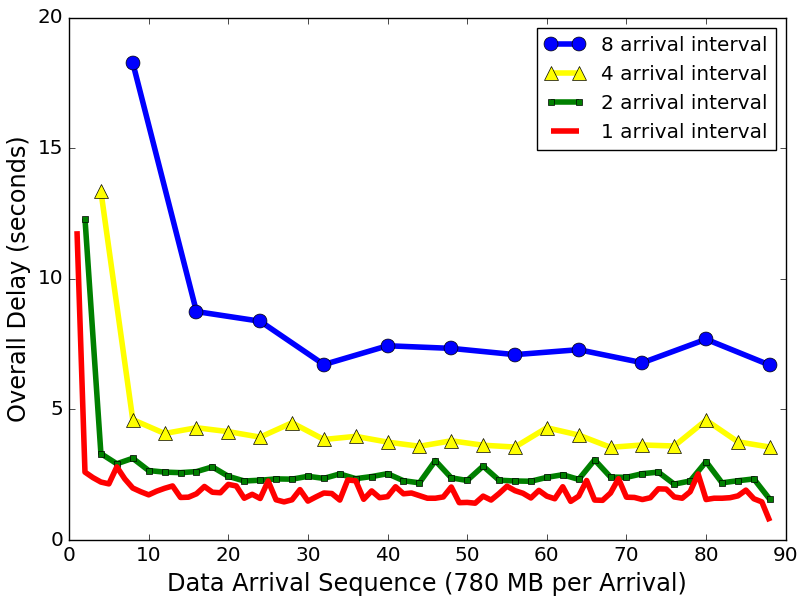
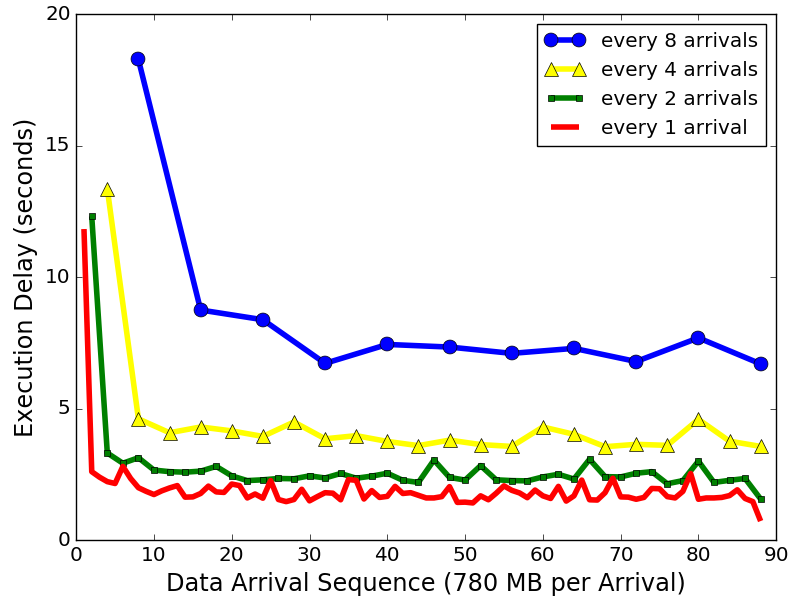
editing the streaming perf

diff --git a/Kira.tex b/Kira.tex
@@ -62,6 +62,8 @@
 \usepackage{listings}
 \usepackage{url}
 \usepackage{balance}
+\usepackage{mathtools}
+\DeclarePairedDelimiter{\ceil}{\lceil}{\rceil}
 
 \newif\ifdraft
 \drafttrue
@@ -606,6 +608,7 @@ and alltoall (shuffle). This broad dataflow pattern support can be used to optim
 \item Spark's underlying file system support allows Kira to process data stored in a distributed file system such as HDFS~\cite{shvachko10}, 
 as well as data stored in HPC-style shared file systems such as GlusterFS~\cite{davies13} or Lustre~\cite{donovan03}.
 \item The Kira toolkit also inherits Spark's fault tolerance mechanism, which is a feature missing from MPI~\cite{gropp96}.
+\item \zhaonote{This is new} The same Kira implementation can leverage other components of the Berkeley Data Analytic Stack (BDAS), e.g., Spark Streaming~\cite{zaharia13}.
 \end{enumerate}
 
 Our experiments show that Spark is capable of managing $O(10^6)$ tasks and that Kira SE runs 4.1$\times$ faster than an equivalent C program when using a shared file system on the Amazon EC2 cloud with the 1TB Data Release 7 from the Sloan Digital Sky Survey~\cite{york00}. We also show that running Kira SE in the Amazon EC2 cloud can achieve performance that is 1.8$\times$ faster than that of the equivalent C program running on the NERSC Edison supercomputer.
@@ -692,6 +695,13 @@ GlusterFS~\cite{davies13} or Lustre~\cite{donovan03}. Spark provides fault toler
 lineage-based recomputation. If a partition of data is lost, Spark can recover the data
 by re-executing the section of the DAG that computed the lost partition.
 
+\zhaonote{This is new}
+Spark stream data processing is enabled by the conceptual data structure {\it discretized streams} (D-Streams)~\cite{zaharia13}.
+D-Streams partitions data stream into multiple small time intervals, then applies a series of stateless and deterministic batch computation
+on the intervals.
+Spark streaming can recover from faults and stragglers at second-scale with its underlying RDD abstraction and the computation lineage
+without redundant hardware.
+It also aims to provide stream data processing with latency at second-scale.
 
 \section{Applying Spark to \\ Many-Task Applications}
 \label{sec:Capability}
@@ -836,6 +846,13 @@ With Spark's Scala interface, we then use the jFITS~\cite{jfits} library to conv
 into the FITS objects that users can transform and compute upon. 
 While with pySpark, we use the Astropy~\cite{astropy13} Python library.
 
+\subsection{Spark Streaming}
+\label{sec:Design-Streaming}
+Spark streaming can monitor an HDFS directory for new files and process the new files periodically. 
+The Python interface of spark stream 1.6.0 release supports text files and fixed-length binary records.
+We implement a new streaming interface called \texttt{SparkContext.binaryFileStream()} to read the FITS
+files as binary streams. 
+Then the source extraction procedure can be applied to the data by calling batch processing routines.
 
 \section{Programming Kira}
 \label{sec:Programming}
@@ -1018,6 +1035,7 @@ In all experiments using Amazon's EC2 service, we use m2.4xlarge instances for s
 The m2.4xlarge instance type has eight cores (each running at 2.4GHz), 68~GB RAM, two hard disk drives (HDD), and Gigabit Ethernet. 
 We chose this HDD based configuration to give a fair comparison against the Edison supercomputer, which is backed by HDDs. 
 An performance study with newer solid state drive (SSD) backed instances is also conducted.
+We study the relation of streaming interval and data freshness based on 16 m2.4xlarge instances.
 Software configurations are described in the following experiments.
 If not stated otherwise, we run each experiment three times, and present the average.
 Error bars in the figures are standard deviation of the measurements.
@@ -1283,7 +1301,19 @@ Using SSD boost the sustained processing rate on 512 cores from 1,335~MB/second 
 than the LSST real time processing requirement.
 
 \subsection{Spark Streaming}
-Figure~\ref{fig:stream}
+In this section, we evaluate the pyKira SE performance with the metric of average total delay that is composed of schedule delay and execution delay.
+The schedule delay is incurred when the data is ready but system can not start processing immediately due to the unfinished previous batch.
+The execution delay is the time-to-solution for the data in the current interval.
+The overall delay is an indicator of how quickly the results can include the data in the current interval, thus it reflects the freshness of the results.
+
+We seek to set the streaming interval long enough to finish the processing on the current data.
+For this purpose, we use the 65GB dataset and 16 m2.4xlarge instances (128 cores in total).
+The 65GB dataset is divided into 88 partitions as the data comes in 88 arrivals, with each arrival having $\sim128$ files (780~MB).
+
+Figure~\ref{fig:stream} shows the measurement of the execution delay when pyKira SE processes every 8 arrivals, 4 arrivals, 2 arrivals, and 1 arrival.
+We see that the starting batch is significantly slower than other batches due to the startup cost, e.g., load libraries into memory.
+Decreasing the arrival count for each batch halves the execution delay except from 2 arrivals to 1 arrival.
+
 \begin{figure}[h]
 	\begin{center}
 		\includegraphics[width=85mm]{pictures/stream}
@@ -1292,24 +1322,43 @@ Figure~\ref{fig:stream}
   	\end{center}
 \end{figure}
 
-Table~\ref{tb:stream}
-
+The average execution delay is reported in the {\it Exe Delay} column in Table~\ref{tb:stream}.
+Based on the measured execution delay, we set the streaming interval for each setting as $\ceil{avg+stdev}$.
+For each streaming interval, we assume the data comes in with a uniform rate and use the time point
+when all data in this interval is processed as the finishing time.
+The average total delay can be estimated as the $avg(total\_delay_{first\_file} + total\_delay_{last\_file})$.
+For example in the 8 arrivals case, the the total delay of the first file is the sum of interval length (9~s) and 
+the average time-to-solution (7.4~s). While the total delay of the last file is solely the average time-to-solution (7.4~s).
+Thus the estimated average total delay is 11.9~s. The estimations of other settings are reported in Table~\ref{tb:stream}.
 \begin{table}[h]
   \begin{center}
-  \caption{Streaming SE Interval Configuration and Performance}
+  \caption{Streaming SE Interval Configuration and Performance. Execution Delay (ExeDelay), Streaming Interval (Int), 
+  and Estimated Average Total Delay are in seconds. 
+  Sustained Input Rate (InRate) and Sustained Output Throughput (OutTput) are in MB/second}
     \begin{small}
-    \begin{tabular}{ | c | c | c | c | c |}
+    \begin{tabular}{ | c | c | c | c | c | c |}
     \hline
-     & Exe Delay & Int  & Sus Tput & Total Delay\\ \hline \hline
-    8 arrs & $8.4\pm3.3$~s & 11~s & 562.1~MB/s & 19.4~s\\ \hline
-    4 arrs & $4.4\pm2$~s & 7~s & 441.7~MB/s & 11.4~s\\ \hline  
-    2 arrs & $2.7\pm1.5$~s & 4~s & 386.4~MB/s & 4.7~s\\ \hline
-    1 arrs & $1.9\pm1.1$~s & 3~s & 257.6~MB/s & 4.9~s\\ \hline
+     & ExeDelay & Int  & InRate & OutTput & AvgTDelay\\ \hline \hline
+    8 arrs & $7.4\pm0.7$ & 9 & 694 & 687.0 & 11.9\\ \hline
+    4 arrs & $3.9\pm0.4$ & 5 & 624.6 & 618.3 & 6.4\\ \hline  
+    2 arrs & $2.5\pm0.3$ & 3 & 520.5 & 515.3 & 4.0\\ \hline
+    1 arrs & $1.8\pm0.3$ & 3 & 260.3 & 257.6 & 3.3\\ \hline
     \end{tabular}
     \end{small}   
   \label{tb:stream}     	
   \end{center}
 \end{table}
+
+From the analysis in Table~\ref{tb:stream}, we can see that lowering the input rate decreases
+the estimated average total delay and in turn enhance the result freshness. 
+However, given the system capability, processing too less data can not make efficient use
+of all machines in the cluster, e.g., lowering the input rate to half from 2 arrivals to 1 arrival
+only achieves a 50\% efficiency compared to the 2 arrival case. 
+Thus the sustained output throughput is decreased by a factor of two. 
+In particular of the LSST real time processing requirement, the measured throughput (257.6~MB/s) is
+below the requirement (330~MB/s).
+
+With the LSST's requirement, the lowest total delay of pyKira SE on a 16 m2.4xlarge cluster is $\sim4$ seconds.
 
 \section{Related Work}
 \label{sec:Related}

diff --git a/pictures/stream.py b/pictures/stream.py
@@ -30,7 +30,7 @@ fig, ax = plt.subplots()
 ax.set_xlim(0, 90)
 ax.set_ylim(0, 20)
 ax.set_xlabel('Data Arrival Sequence (780 MB per Arrival)', size='x-large')
-ax.set_ylabel('Overall Delay (seconds)', size='x-large')
+ax.set_ylabel('Execution Delay (seconds)', size='x-large')
 plt.xticks(size='large')
 plt.yticks(size='large')
 with plt.style.context('fivethirtyeight'):
@@ -38,5 +38,5 @@ with plt.style.context('fivethirtyeight'):
   ax.plot(x4, y4, '^-', ms='10', c='yellow')
   ax.plot(x2, y2, 's-', ms='5', c='green')
   ax.plot(x1, y1, c='red')
-ax.legend(('8 arrival interval', '4 arrival interval', '2 arrival interval', '1 arrival interval') )
+ax.legend(('every 8 arrivals', 'every 4 arrivals', 'every 2 arrivals', 'every 1 arrival') )
 plt.show()
